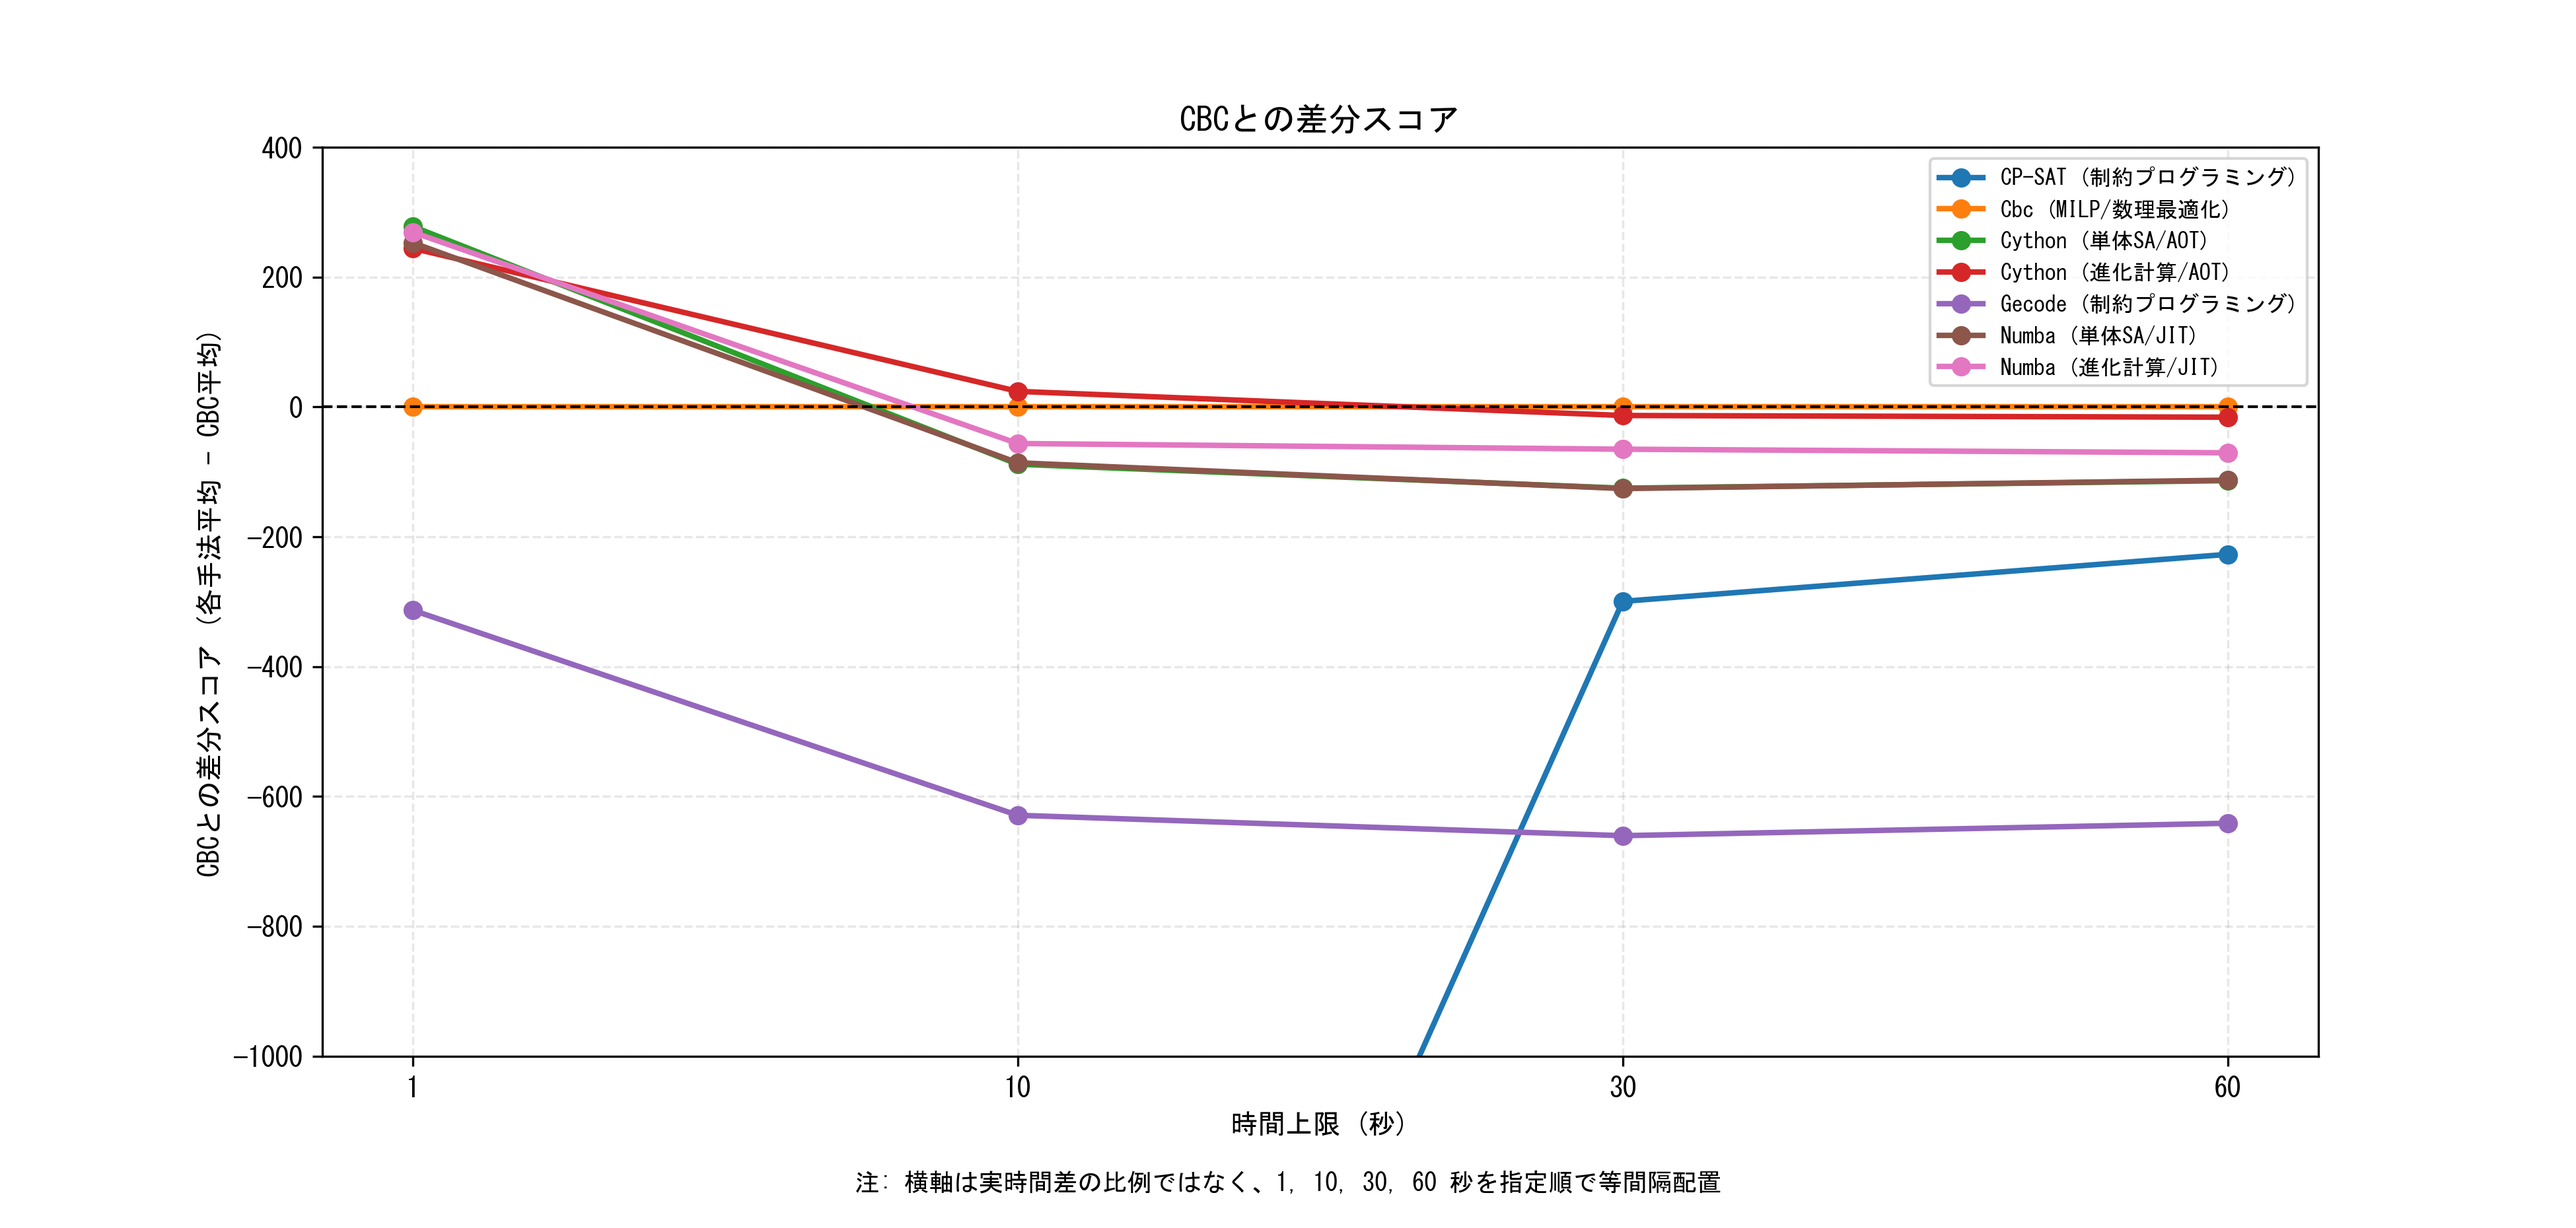
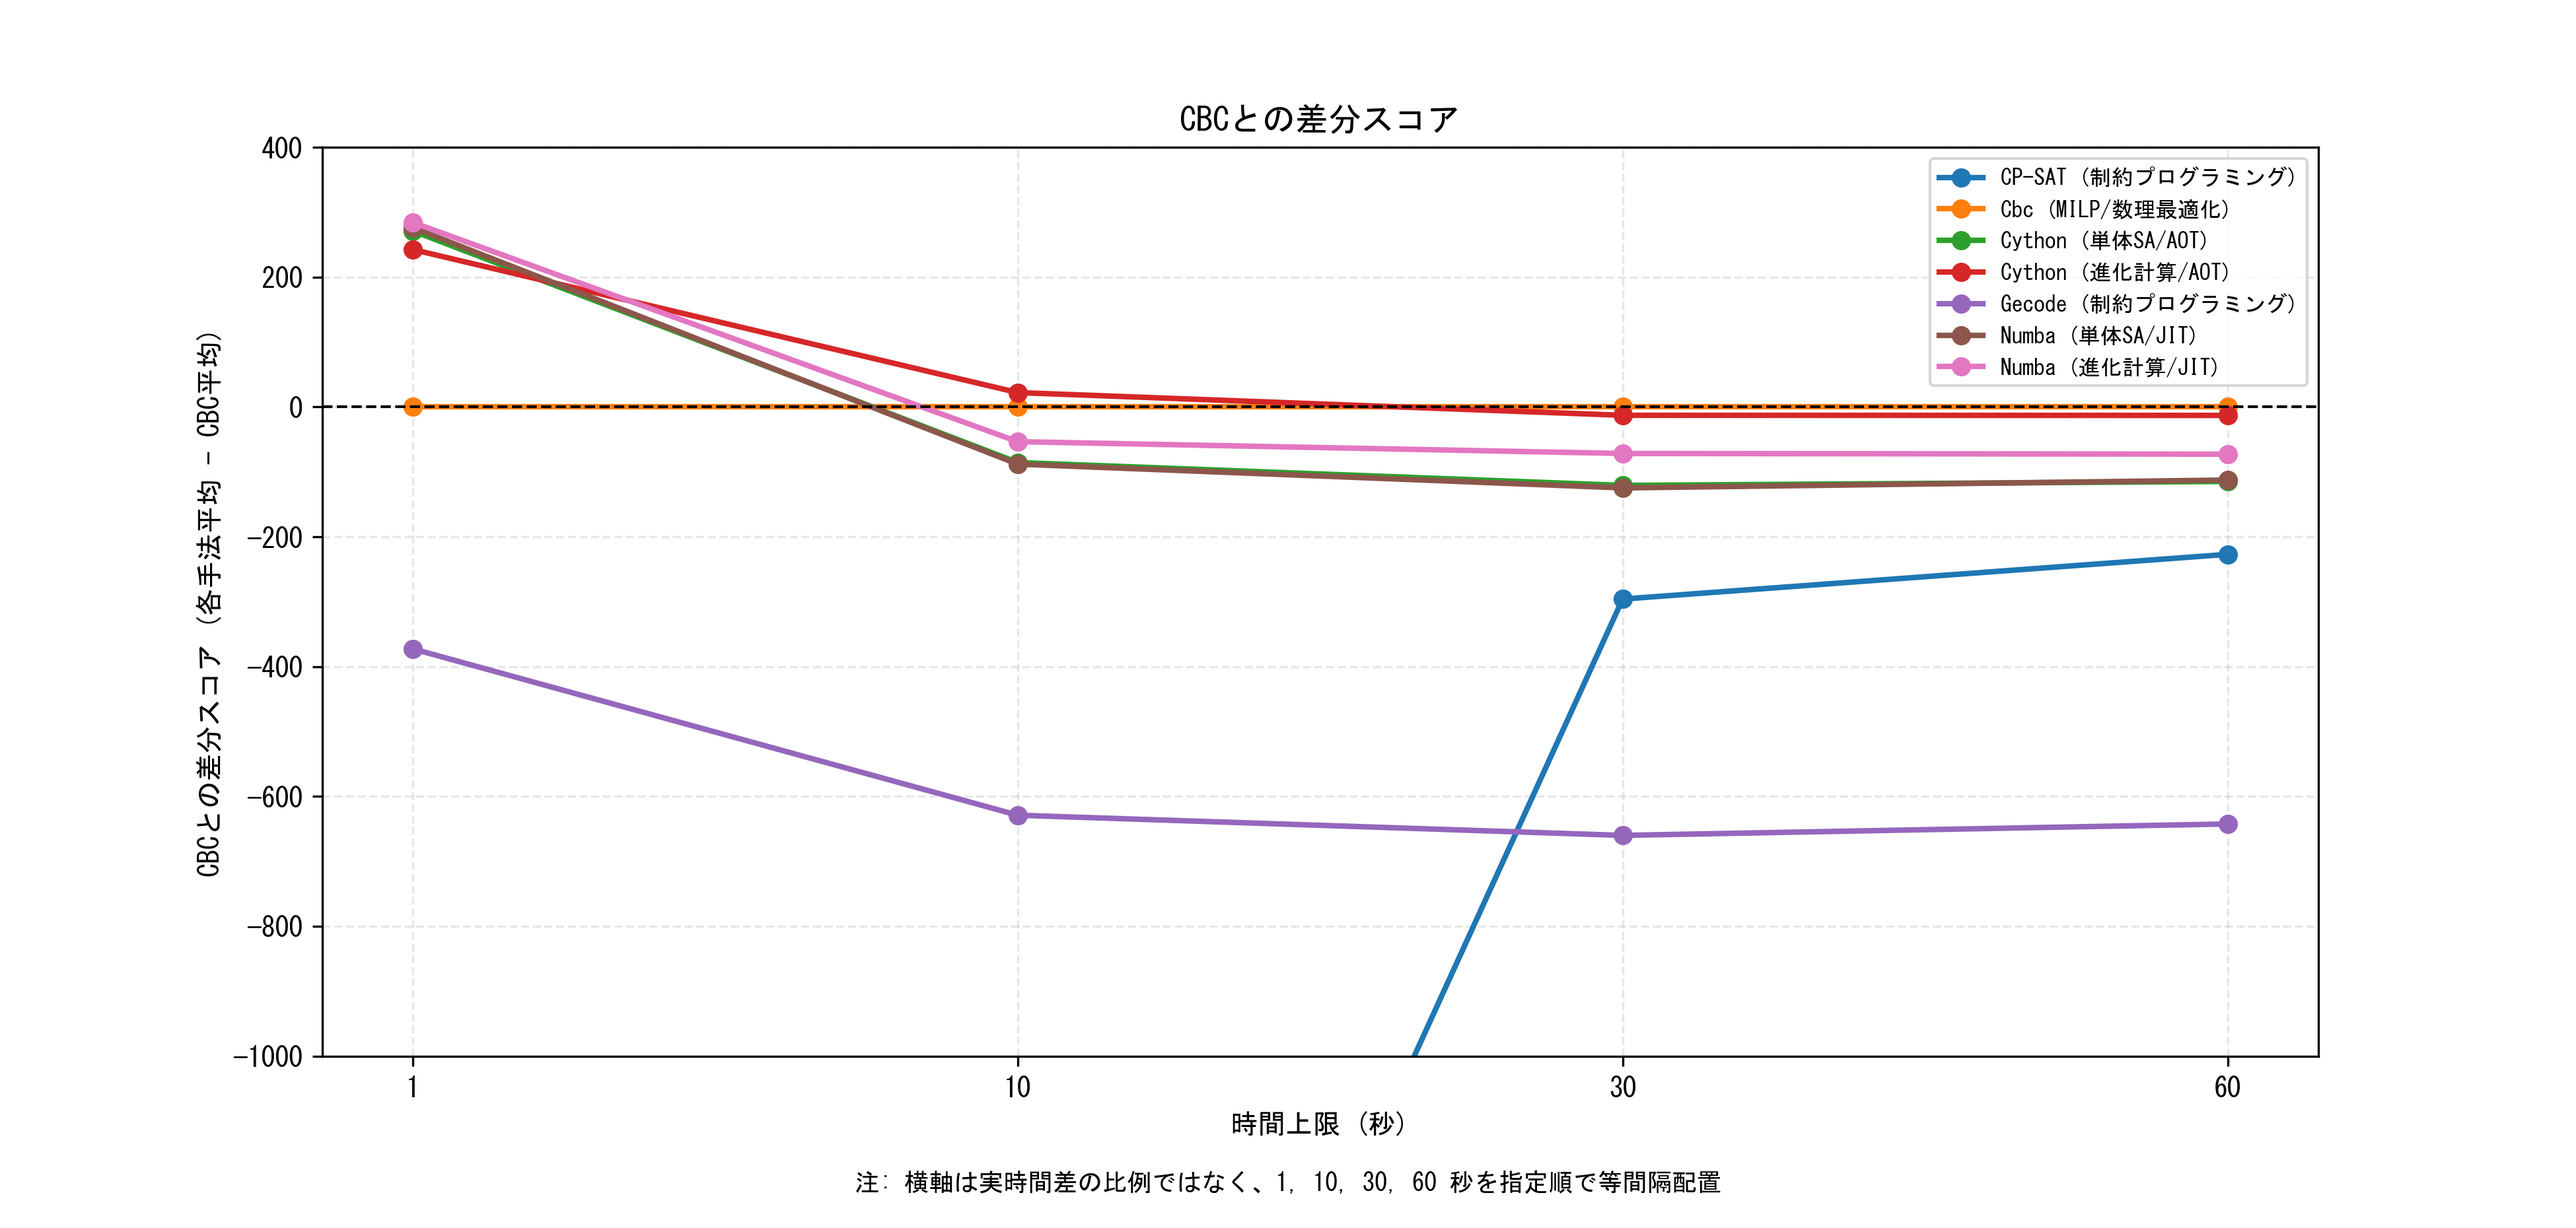
docs: ベンチマークレポートを最新化しREADMEの結論を実測値に合わせて更新

diff --git a/results/reports/benchmark_report_jp.md b/results/reports/benchmark_report_jp.md
@@ -1,66 +1,66 @@
 # ソルバー性能比較レポート
 
-生成日時: 2026-03-15 17:53:01
+生成日時: 2026-03-16 11:03:41
 
 ## 時間予算別の統計結果
 
 各予算について、時間窓内 (budget < 実行時間 < budget+バッファ) のデータから、ソルバーごとに最新20件までを集計し、目的関数値の平均・標準偏差・試行数を表示しています。
 
-注: メイン線グラフとΔスコア図の横軸は、0.03・1・10・30・60秒を実時間比ではなく指定順で等間隔に配置しています。
+注: メイン線グラフとΔスコア図の横軸は、0.05・1・10・30・60秒を実時間比ではなく指定順で等間隔に配置しています。
 
-### 実行時間上限 0.03 秒 (Cython/Numba の単体SAのみ)
+### 実行時間上限 0.05 秒 (Cython/Numba の単体SAのみ)
 
 | 手法・実装             |   目的関数値 平均 |   目的関数値 標準偏差 |   試行数 |   実行時間 平均 (秒) | 計算状態(最新)   |
 |:------------------|-----------:|-------------:|------:|--------------:|:-----------|
-| Cython (単体SA/AOT) |    4157.15 |        36.13 |    20 |        0.0358 | 近似解/満足解    |
-| Numba (単体SA/JIT)  |    4127    |         0    |    20 |        0.0644 | 近似解/満足解    |
+| Cython (単体SA/AOT) |    4184.75 |        45.68 |    20 |        0.0512 | 近似解/満足解    |
+| Numba (単体SA/JIT)  |    4132.2  |        39.01 |    20 |        0.0529 | 近似解/満足解    |
 
 ### 実行時間上限 1 秒
 
 | 手法・実装              |   目的関数値 平均 |   目的関数値 標準偏差 |   試行数 |   実行時間 平均 (秒) | 計算状態(最新)   |
 |:-------------------|-----------:|-------------:|------:|--------------:|:-----------|
-| Cython (単体SA/AOT)  |    4297.15 |        18.88 |    20 |        1.0071 | 近似解/満足解    |
-| Numba (進化計算/JIT)   |    4288.4  |        32.12 |    20 |        1.0255 | 近似解/満足解    |
-| Numba (単体SA/JIT)   |    4272.15 |        23.42 |    20 |        1.0159 | 近似解/満足解    |
-| Cython (進化計算/AOT)  |    4263.45 |        17.83 |    20 |        1.017  | 近似解/満足解    |
-| Cbc (MILP/数理最適化)   |    4019    |         0    |    20 |        1.0551 | 近似解/満足解    |
-| Gecode (制約プログラミング) |    3705.95 |         0.22 |    20 |        1.1126 | 近似解/満足解    |
-| CP-SAT (制約プログラミング) |       0    |         0    |    20 |        2.092  | UNKNOWN    |
+| Numba (進化計算/JIT)   |    4303.4  |        23.96 |    20 |        1.0188 | 近似解/満足解    |
+| Numba (単体SA/JIT)   |    4295.4  |        23.21 |    20 |        1.0107 | 近似解/満足解    |
+| Cython (単体SA/AOT)  |    4290.35 |        22.23 |    20 |        1.012  | 近似解/満足解    |
+| Cython (進化計算/AOT)  |    4261.65 |        17.61 |    20 |        1.0158 | 近似解/満足解    |
+| Cbc (MILP/数理最適化)   |    4019    |         0    |    20 |        1.045  | 近似解/満足解    |
+| Gecode (制約プログラミング) |    3646.4  |       228.88 |    20 |        1.1085 | 近似解/満足解    |
+| CP-SAT (制約プログラミング) |       0    |         0    |    20 |        2.0855 | UNKNOWN    |
 
 ### 実行時間上限 10 秒
 
 | 手法・実装              |   目的関数値 平均 |   目的関数値 標準偏差 |   試行数 |   実行時間 平均 (秒) | 計算状態(最新)   |
 |:-------------------|-----------:|-------------:|------:|--------------:|:-----------|
-| Cython (進化計算/AOT)  |    4493.1  |        35.45 |    20 |       10.0178 | 近似解/満足解    |
-| Cbc (MILP/数理最適化)   |    4469    |         0    |    20 |       10.0633 | 近似解/満足解    |
-| Numba (進化計算/JIT)   |    4412.75 |        22.89 |    20 |       10.0228 | 近似解/満足解    |
-| Numba (単体SA/JIT)   |    4383.05 |        10.46 |    20 |       10.0124 | 近似解/満足解    |
-| Cython (単体SA/AOT)  |    4380.8  |        10.1  |    20 |       10.0088 | 近似解/満足解    |
-| Gecode (制約プログラミング) |    3840    |         0    |    20 |       10.1136 | 近似解/満足解    |
-| CP-SAT (制約プログラミング) |    2084.7  |       130.24 |    20 |       11.0942 | 近似解/満足解    |
+| Cython (進化計算/AOT)  |    4491.2  |        31.12 |    20 |       10.0155 | 近似解/満足解    |
+| Cbc (MILP/数理最適化)   |    4469    |         0    |    20 |       10.053  | 近似解/満足解    |
+| Numba (進化計算/JIT)   |    4415.6  |        21.27 |    20 |       10.0234 | 近似解/満足解    |
+| Cython (単体SA/AOT)  |    4383.45 |        10.26 |    20 |       10.0108 | 近似解/満足解    |
+| Numba (単体SA/JIT)   |    4381    |        13.38 |    20 |       10.0101 | 近似解/満足解    |
+| Gecode (制約プログラミング) |    3840.1  |         0.45 |    20 |       10.1061 | 近似解/満足解    |
+| CP-SAT (制約プログラミング) |    2129.45 |        50.55 |    20 |       11.0827 | 近似解/満足解    |
 
 ### 実行時間上限 30 秒
 
 | 手法・実装              |   目的関数値 平均 |   目的関数値 標準偏差 |   試行数 |   実行時間 平均 (秒) | 計算状態(最新)   |
 |:-------------------|-----------:|-------------:|------:|--------------:|:-----------|
-| Cbc (MILP/数理最適化)   |    4528    |         0    |    20 |       30.071  | 近似解/満足解    |
-| Cython (進化計算/AOT)  |    4514.9  |        23.04 |    20 |       30.0173 | 近似解/満足解    |
-| Numba (進化計算/JIT)   |    4462.95 |        21.69 |    20 |       30.0218 | 近似解/満足解    |
-| Cython (単体SA/AOT)  |    4402.9  |         5.67 |    20 |       30.0134 | 近似解/満足解    |
-| Numba (単体SA/JIT)   |    4402.35 |         8.89 |    20 |       30.0151 | 近似解/満足解    |
-| CP-SAT (制約プログラミング) |    4228.55 |         6.61 |    20 |       31.1068 | 近似解/満足解    |
-| Gecode (制約プログラミング) |    3867.55 |         0.51 |    20 |       30.1214 | 近似解/満足解    |
+| Cbc (MILP/数理最適化)   |    4528    |         0    |    20 |       30.0684 | 近似解/満足解    |
+| Cython (進化計算/AOT)  |    4515.2  |        29.69 |    20 |       30.0207 | 近似解/満足解    |
+| Numba (進化計算/JIT)   |    4456.4  |        12.26 |    20 |       30.0195 | 近似解/満足解    |
+| Cython (単体SA/AOT)  |    4407.2  |         9.12 |    20 |       30.0135 | 近似解/満足解    |
+| Numba (単体SA/JIT)   |    4403.35 |         7.96 |    20 |       30.017  | 近似解/満足解    |
+| CP-SAT (制約プログラミング) |    4232.1  |         8.44 |    20 |       31.1016 | 近似解/満足解    |
+| Gecode (制約プログラミング) |    3868    |         0    |    20 |       30.1157 | 近似解/満足解    |
 
 ### 実行時間上限 60 秒
 
 | 手法・実装              |   目的関数値 平均 |   目的関数値 標準偏差 |   試行数 |   実行時間 平均 (秒) | 計算状態(最新)   |
 |:-------------------|-----------:|-------------:|------:|--------------:|:-----------|
-| Cbc (MILP/数理最適化)   |    4528    |         0    |    20 |       60.0698 | 近似解/満足解    |
-| Cython (進化計算/AOT)  |    4512.3  |        23.85 |    20 |       60.019  | 近似解/満足解    |
-| Numba (進化計算/JIT)   |    4457.45 |         9.62 |    20 |       60.0214 | 近似解/満足解    |
-| Numba (単体SA/JIT)   |    4415.25 |        10.02 |    20 |       60.0131 | 近似解/満足解    |
-| Cython (単体SA/AOT)  |    4414.5  |         7.55 |    20 |       60.0133 | 近似解/満足解    |
-| CP-SAT (制約プログラミング) |    4301    |         0    |    20 |       61.0964 | 近似解/満足解    |
-| Gecode (制約プログラミング) |    3886.7  |         4.32 |    20 |       60.119  | 近似解/満足解    |
+| Cbc (MILP/数理最適化)   |    4528    |         0    |    20 |       60.0696 | 近似解/満足解    |
+| Cython (進化計算/AOT)  |    4515.05 |        20.97 |    20 |       60.0201 | 近似解/満足解    |
+| Numba (進化計算/JIT)   |    4455.35 |        13.81 |    20 |       60.0165 | 近似解/満足解    |
+| Numba (単体SA/JIT)   |    4415.45 |        10.29 |    20 |       60.0159 | 近似解/満足解    |
+| Cython (単体SA/AOT)  |    4413.3  |         9.22 |    20 |       60.0092 | 近似解/満足解    |
+| CP-SAT (制約プログラミング) |    4301    |         0    |    20 |       61.0885 | 近似解/満足解    |
+| Gecode (制約プログラミング) |    3885.6  |         5.64 |    20 |       60.1159 | 近似解/満足解    |
 
 *数理最適化、制約プログラミング、および焼きなまし法（SA）による性能比較*

diff --git a/README.md b/README.md
@@ -66,13 +66,13 @@ uv run python scripts/generate_report.py
 
 ## 現在の結論（要点）
 
-- 0.05秒では Cython / Numba の単体焼きなまし法（SA）が即座に実行可能解を返す
-- 1秒では Cython / Numba のヒューリスティックが Cbc より高いスコア帯に到達する
-- 10秒以降で Cython の進化計算が大きく伸び、30秒〜60秒では Cbc に近い平均スコアを示す
-- Cython が強い場面が多い主因は、Cython は純粋な計算速度が非常に高速であるため、同時間内で反復回数・世代交代回数をより確保しやすい点にある
-- 進化計算は単体焼きなまし法（SA）より解のばらつきが大きく、多様な候補解を探索できる点が、同一条件で同種の解に収束しやすい決定論的ソルバーに対する実務上の強みになっている
+- 0.05秒（単体SAのみ）では Cython 平均 4184.75、Numba 平均 4132.20 で、どちらも即座に実行可能解を返す
+- 1秒ではヒューリスティック系（Cython/Numba）が Cbc（平均 4019）を上回る一方、CP-SAT はこの条件では有効解を安定して返せていない
+- 10秒では Cython 進化計算（平均 4491.20）が Cbc（平均 4469）を上回る
+- 30秒〜60秒では Cbc（平均 4528）が最上位で、Cython 進化計算（平均 4515.20 / 4515.05）が僅差で続く
+- Numba 進化計算は 10秒〜60秒で単体SAより高い平均スコアを維持し、進化計算の有効性が確認できる
 
-本リポジトリの主張は「常に厳密解法を上回る」ことではありません。短時間で高品質な実行可能解を返せるヒューリスティック実装を、汎用ソルバーと比較可能な形で提示すること、加えて Cython / Numba の実装自由度（制約追加や探索戦略調整のしやすさ）と、進化計算が持つ解の多様性を示すことにあります。
+本リポジトリの主張は「常に厳密解法を上回る」ことではありません。時間予算に応じた実行可能解の品質を比較可能な形で示し、Cython / Numba 実装の調整自由度（制約追加や探索戦略変更のしやすさ）と、進化計算が持つ探索多様性を実験的に示すことにあります。
 
 ## レポート
 
